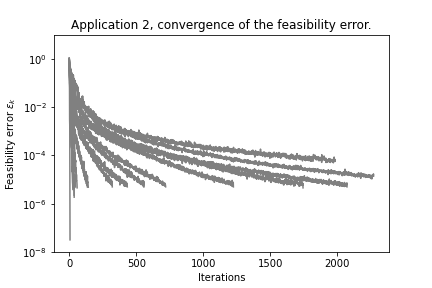
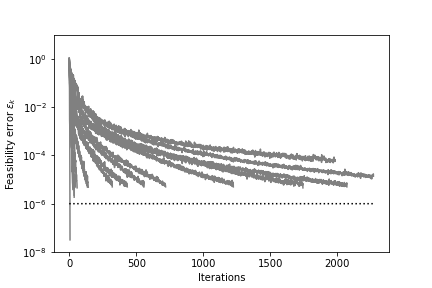
grayscale plots

Changed region(s): [[0.1505, 0.0625, 0.8727, 0.125], [0.1806, 0.6875, 0.8426, 0.7188]]

diff --git a/plots.py b/plots.py
@@ -23,25 +23,27 @@ def plot_convergence_single(name):
     plt.savefig("plots/"+name+".png")
     plt.close()
     
-def plot_convergence_app(app_idx,instance_liste):
+def plot_convergence_app(app_idx,instance_liste,target):
+    m = 0
     for name in instance_liste:
         file = open("epsilon/"+name+".txt")
         array = []
         for line in file.readlines():
             array.append(float(line))
-        
+        m = max(m, len(array))
         plt.plot(np.abs(np.array(array[app_idx-1:])), color ='grey')
+    plt.plot(range(m), np.ones(m)*target,color ='black',linestyle = ":")
     #plt.xscale('log')
     plt.ylim([1E-8,10])
     plt.yscale('log')
-    plt.title("Application {0}, convergence of the feasibility error.".format(app_idx))
+    #plt.title("Application {0}, convergence of the feasibility error.".format(app_idx))
     plt.xlabel("Iterations")
     plt.ylabel(r'Feasibility error $\epsilon_k$')
     plt.savefig("plots/app_{0}.png".format(app_idx))
     plt.close()
     
-for name in os.listdir('epsilon'):
-    plot_convergence_single(name[:len(name)-4])
+# for name in os.listdir('epsilon'):
+#     plot_convergence_single(name[:len(name)-4])
 
 app1liste = ['nonpsd1',
  'nonpsd10',
@@ -85,5 +87,5 @@ app2liste = ['jeannotpsd',
  'queen9notpsd',
  'queen9psd']
 
-plot_convergence_app(1,app1liste)
-plot_convergence_app(2,app2liste)
+plot_convergence_app(1,app1liste,1E-6)
+plot_convergence_app(2,app2liste,1E-6)
